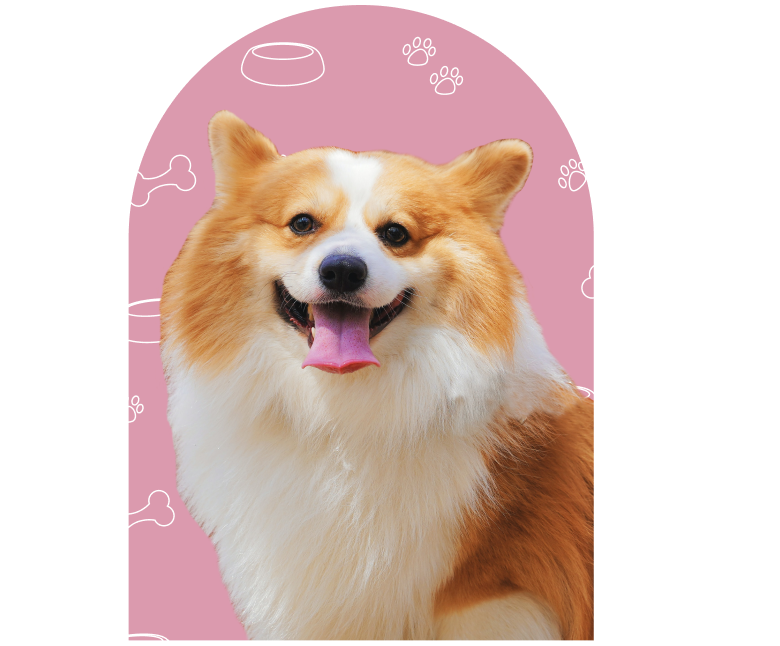
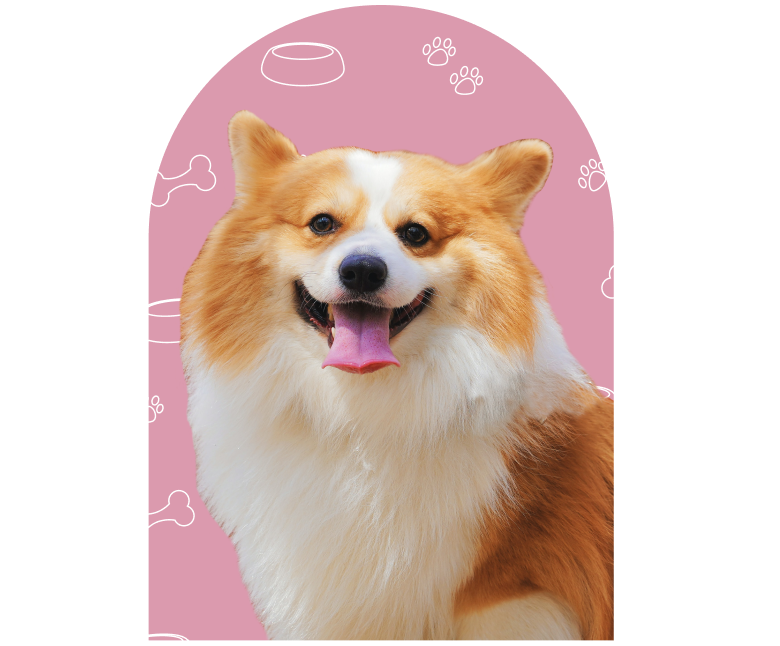
cambios home y detalles finales del lunes

Changed region(s): [[0.1538, 0.0, 0.8, 1.0], [0.3692, 0.0, 0.4615, 0.031]]

diff --git a/home.html b/home.html
@@ -123,8 +123,8 @@
           <div class="col-xl-3 col-md-6 d-flex align-items-stretch mt-4 mt-md-0" data-aos="zoom-in" data-aos-delay="200">
             <div class="icon-box">
               <div class="imgcenter"><img src="assets/img/service-icon-01.png"></div>
-              <h4><a href="">Subscribite!</a></h4>
-              <p>Podés subscribirte por un año, seis meses o por única vez. Nos va a encantar que te nos unas!</p>
+              <h4 class="imgcenter"><a href="">Subscribite!</a></h4>
+              <p class="imgcenter">Podés subscribirte por un año, seis meses o por única vez. Nos va a encantar que te nos unas!</p>
             </div>
           </div>
   
@@ -132,8 +132,8 @@
           <div class="col-xl-3 col-md-6 d-flex align-items-stretch" data-aos="zoom-in" data-aos-delay="100">
             <div class="icon-box">
               <div class="imgcenter"><img src="assets/img/service-icon-02.png"></div>
-              <h4><a href="">Contanos sobre tu mascota</a></h4>
-              <p>Completa el formulario para que armemos una caja personalizada a su medida.</p>
+              <h4 class="imgcenter"><a href="">Contanos sobre tu mascota</a></h4>
+              <p class="imgcenter">Completa el formulario para que armemos una caja personalizada a su medida.</p>
             </div>
           </div>
 
@@ -141,16 +141,16 @@
           <div class="col-xl-3 col-md-6 d-flex align-items-stretch mt-4 mt-xl-0" data-aos="zoom-in" data-aos-delay="300">
             <div class="icon-box">
               <div class="imgcenter"><img src="assets/img/service-icon-03.png"></div>
-              <h4><a href="">Te llega GRATIS a tu casa </a></h4>
-              <p>Te enviamos tu Guau Box completamente GRATIS a tu casa cada més.</p>
+              <h4 class="imgcenter"><a href="">Te llega GRATIS a tu casa </a></h4>
+              <p class="imgcenter">Te enviamos tu Guau Box completamente GRATIS a tu casa cada més.</p>
             </div>
           </div>
 
           <div class="col-xl-3 col-md-6 d-flex align-items-stretch mt-4 mt-xl-0" data-aos="zoom-in" data-aos-delay="400">
             <div class="icon-box">
               <div class="imgcenter"><img src="assets/img/service-icon-04.png"></div>
-              <h4><a href="">¡A Disfrutar en familia!</a></h4>
-              <p>Goza de la mejor calidad en alimento canino y productos nacionales e importados!</p>
+              <h4 class="imgcenter"><a href="" >¡A Disfrutar en familia!</a></h4>
+              <p class="imgcenter">Goza de la mejor calidad en alimento canino y productos nacionales e importados!</p>
             </div>
           </div>
 
@@ -206,7 +206,7 @@
 
         <div class="row">
 
-          <div class="col-lg-7 d-flex flex-column justify-content-center align-items-stretch  order-2 order-lg-1">
+          <div class="col-lg-6 d-flex flex-column justify-content-center align-items-stretch  order-2 order-lg-1">
 
             <div class="content">
               <h2>Conoce nuestra historia</h2>
@@ -226,41 +226,66 @@
 
           </div>
 
-          <div class="col-lg-5 align-items-stretch order-1 order-lg-2 img" style='background-image: url("assets/img/why-us.png");' data-aos="zoom-in" data-aos-delay="150">&nbsp;</div>
+          <div class="col-lg-6 align-items-stretch order-1 order-lg-2 img" style='background-image: url("assets/img/why-us.png");' data-aos="zoom-in" data-aos-delay="150">&nbsp;</div>
       
         </div>
 
       </div>
     </section><!-- End Why Us Section -->
 
-        <!-- ======= Why Us Section ======= -->
-        <section id="why-us" class="why-us section-bg">
-      
-          <div class="container-fluid" data-aos="fade-up">
-    
-            <div class="row">
-    
-              <div class="col-lg-7 d-flex flex-column justify-content-center align-items-stretch  order-2 order-lg-1">
-    
-                <div class="content">
-                  <h2>El aval del Dr. Romero</h2>
-                  <p> Contamos con productos seleccionados que estan avalados por el veterinario reconocido, el Doctor Juan Enrique Romero.</p>
-                    <p>Nuestros productos son de primeras marcas en la industria canina y contamos con la mejor selección de articulas tanto nacionales como internacionales.</p> 
-                
-                </div>
-    
-                <div class="accordion-list">
-                </div> 
-    
-    
-              </div>
-    
-              <div class="col-lg-5 align-items-stretch order-1 order-lg-2 img" style='background-image: url("assets/img/why-us3.png");' data-aos="zoom-in" data-aos-delay="150">&nbsp;</div>
-          
-            </div>
-    
+    <!-- ======= Skills Section ======= -->
+
+    <section id="skills" class="skills">
+      <div class="container" data-aos="fade-up">
+
+        <div class="row">
+          <div class="col-lg-6 d-flex align-items-center" data-aos="fade-right" data-aos-delay="100">
+            <img src="assets/img/why-us2.png" class="img-fluid" alt="">
           </div>
-        </section><!-- End Why Us Section -->
+          <div class="col-lg-6 pt-4 pt-lg-0 content" data-aos="fade-left" data-aos-delay="100">
+            <h2>El aval del Dr. Romero</h2>
+            <p class="txtchico">Contamos con productos seleccionados que estan avalados por el veterinario reconocido, el Doctor Juan Enrique Romero.</p>
+            <p class="txtchico">Nuestros productos son de primeras marcas en la industria canina y contamos con la mejor selección de articulas tanto nacionales como internaciona</p> 
+            
+            <img src="assets/img/recursos.png" class="img-fluid">
+<!--
+            <div class="skills-content">
+
+              <div class="progress">
+                <span class="skill">HTML <i class="val">100%</i></span>
+                <div class="progress-bar-wrap">
+                  <div class="progress-bar" role="progressbar" aria-valuenow="100" aria-valuemin="0" aria-valuemax="100"></div>
+                </div>
+              </div>
+
+              <div class="progress">
+                <span class="skill">CSS <i class="val">90%</i></span>
+                <div class="progress-bar-wrap">
+                  <div class="progress-bar" role="progressbar" aria-valuenow="90" aria-valuemin="0" aria-valuemax="100"></div>
+                </div>
+              </div>
+
+              <div class="progress">
+                <span class="skill">JavaScript <i class="val">75%</i></span>
+                <div class="progress-bar-wrap">
+                  <div class="progress-bar" role="progressbar" aria-valuenow="75" aria-valuemin="0" aria-valuemax="100"></div>
+                </div>
+              </div>
+
+              <div class="progress">
+                <span class="skill">Photoshop <i class="val">55%</i></span>
+                <div class="progress-bar-wrap">
+                  <div class="progress-bar" role="progressbar" aria-valuenow="55" aria-valuemin="0" aria-valuemax="100"></div>
+                </div>
+              </div>
+
+            </div>-->
+
+          </div>
+        </div>
+
+      </div> 
+    </section><!--End Skills Section--> 
 
     
     <!-- ======= Cta Section ======= -->
@@ -297,9 +322,9 @@
 
           <div class="col-lg-4" data-aos="fade-up" data-aos-delay="100">
             <div class="box">
-              <h3>Un mimito</h3>
+              <h3 class="titlecenter">Un mimito</h3>
               <ul>
-                <div class="icon"><img src="assets/img/box-img1.png"></div>
+                <div class="imgcenter"><img src="assets/img/box-img1.png"></div>
                 <li><i class="bx bx-check"></i> Compra por única vez</li>
                 <li><i class="bx bx-check"></i> Te la envíamos GRATIS a tu casa</li>
                 <li><i class="bx bx-check"></i> Completamente personalizada</li>
@@ -310,10 +335,10 @@
 
           <div class="col-lg-4 mt-4 mt-lg-0" data-aos="fade-up" data-aos-delay="300">
             <div class="box">
-              <h3>Un gran mimo</h3>
+              <h3 class="imgcenter">Un gran mimo</h3>
               
               <ul>
-                <div class="icon"><img src="assets/img/box-img2.png"></div>
+                <div class="titlecenter"><img src="assets/img/box-img2.png"></div>
                 <li><i class="bx bx-check"></i> Compra por seis meses</li>
                 <li><i class="bx bx-check"></i> Te la envíamos GRATIS a tu casa</li>
                 <li><i class="bx bx-check"></i> Completamente personalizada</li>
@@ -325,9 +350,9 @@
 
           <div class="col-lg-4 mt-4 mt-lg-0" data-aos="fade-up" data-aos-delay="200">
             <div class="box">
-              <h3>¡Mimalo mucho!</h3>
+              <h3 class="titlecenter">Mimalo mucho</h3>
               <ul>
-                <div class="icon"><img src="assets/img/box-img3.png"></div>
+                <div class="imgcenter"><img src="assets/img/box-img3.png"></div>
                 <li><i class="bx bx-check"></i> Compra por un año</li>
                 <li><i class="bx bx-check"></i> Te la envíamos GRATIS a tu casa</li>
                 <li><i class="bx bx-check"></i> Completamente personalizada</li>
@@ -399,7 +424,6 @@
 
       </div>
     </section><!-- End Cliens Section -->
-
 
     
     <!-- ======= Portfolio Section ======= -->

diff --git a/assets/css/style.css b/assets/css/style.css
@@ -522,6 +522,7 @@ h2 {
     font-size: 16px;
     padding: 10px 24px 11px 24px;
     color: #5532ae;
+    margin-bottom: 36px;
   }
 }
 
@@ -712,6 +713,7 @@ section {
 
 .why-us {
   background-color: rgb(255, 255, 255);
+  padding-bottom: 60px;
 }
 
 .why-us .content h3 {
@@ -838,6 +840,8 @@ section {
   }
   .why-us .content {
     padding-top: 30px;
+    margin-left: 24px;
+    margin-right: 24px;
   }
   .why-us .accordion-list {
     padding-bottom: 30px;
@@ -886,6 +890,10 @@ section {
   border-radius: 0;
 }
 
+.txtchico {
+  font-size: 15px;
+}
+
 .skills .progress .skill {
   padding: 0;
   margin: 0 0 6px 0;
@@ -911,6 +919,15 @@ section {
   height: 10px;
   transition: 0.9s;
   background-color: #5532ae;
+}
+@media (max-width: 1024px) {
+  .skills .container .row {
+    padding-left: 0;
+    padding-right: 0;
+    text-align: center;
+    margin-left: 24px;
+    margin-right: 24px;
+  }
 }
 
 /*--------------------------------------------------------------
@@ -1416,6 +1433,11 @@ section {
 .pricing .section-title h2 {
   color: #fff;
 }
+.titlecenter {
+  color: #5532ae;
+  font-size: 20px;
+  text-align: center;
+}
 
 .pricing .row {
   padding-top: 40px;
@@ -1856,7 +1878,10 @@ section {
     transform: rotate(360deg);
   }
 }
-
+@media (max-width: 992px) {
+  .contact .container {
+  }
+}
 /*--------------------------------------------------------------
 # Breadcrumbs
 --------------------------------------------------------------*/

diff --git a/portfolio-details.html b/portfolio-details.html
@@ -156,15 +156,6 @@
               <p>   </p>
 
               <div> <!-- <a href=""><i class="ri-truck-fill"></i></a> --> <p> Envío GRATIS a todo el país </p> </div>
-             
-
-              <div class="social">
-                
-                <a href=""><i class="ri-twitter-fill"></i></a>
-                <a href=""><i class="ri-facebook-fill"></i></a>
-                <a href=""><i class="ri-instagram-fill"></i></a>
-               
-              </div>
               
              
             </div>
